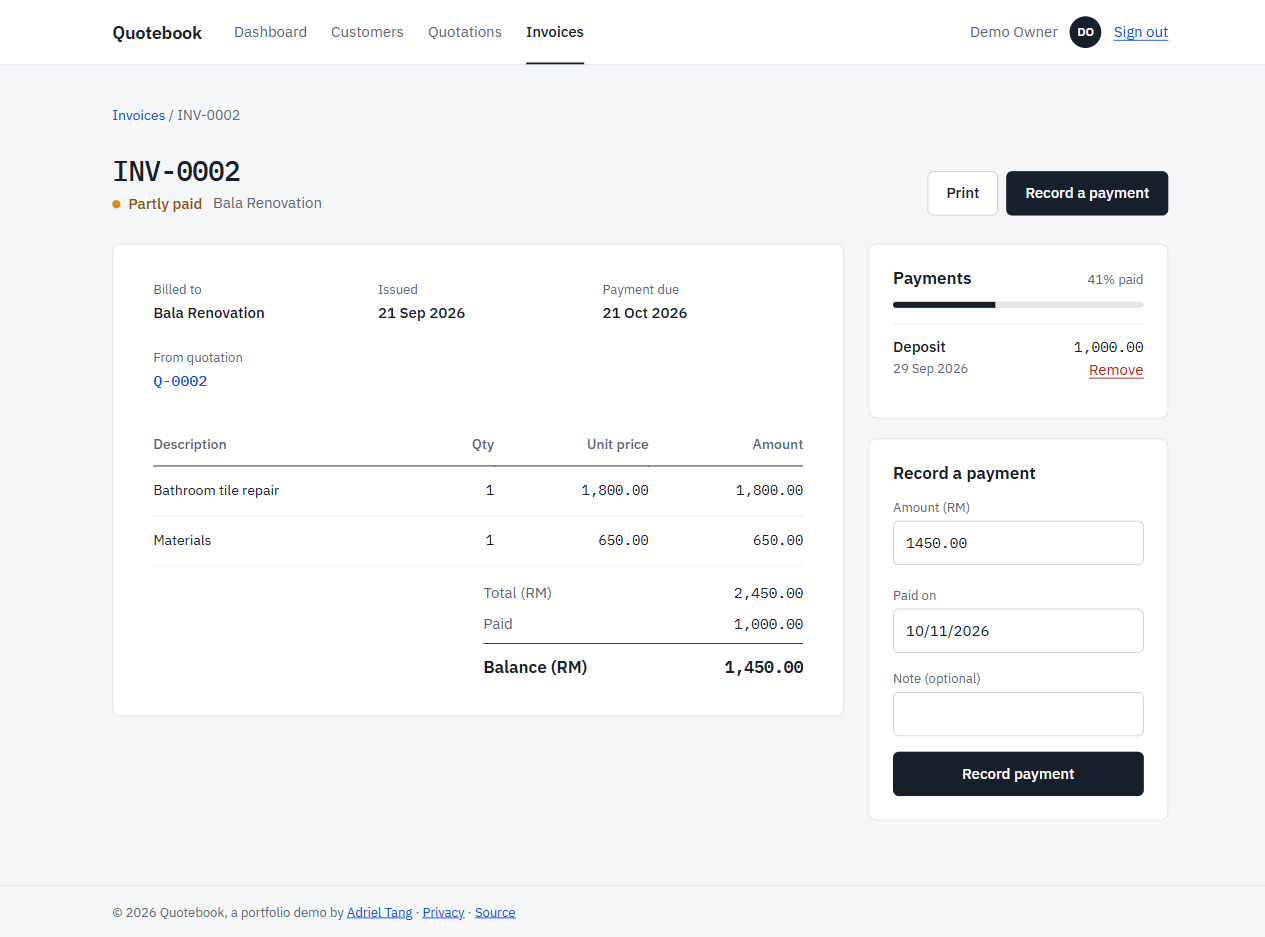
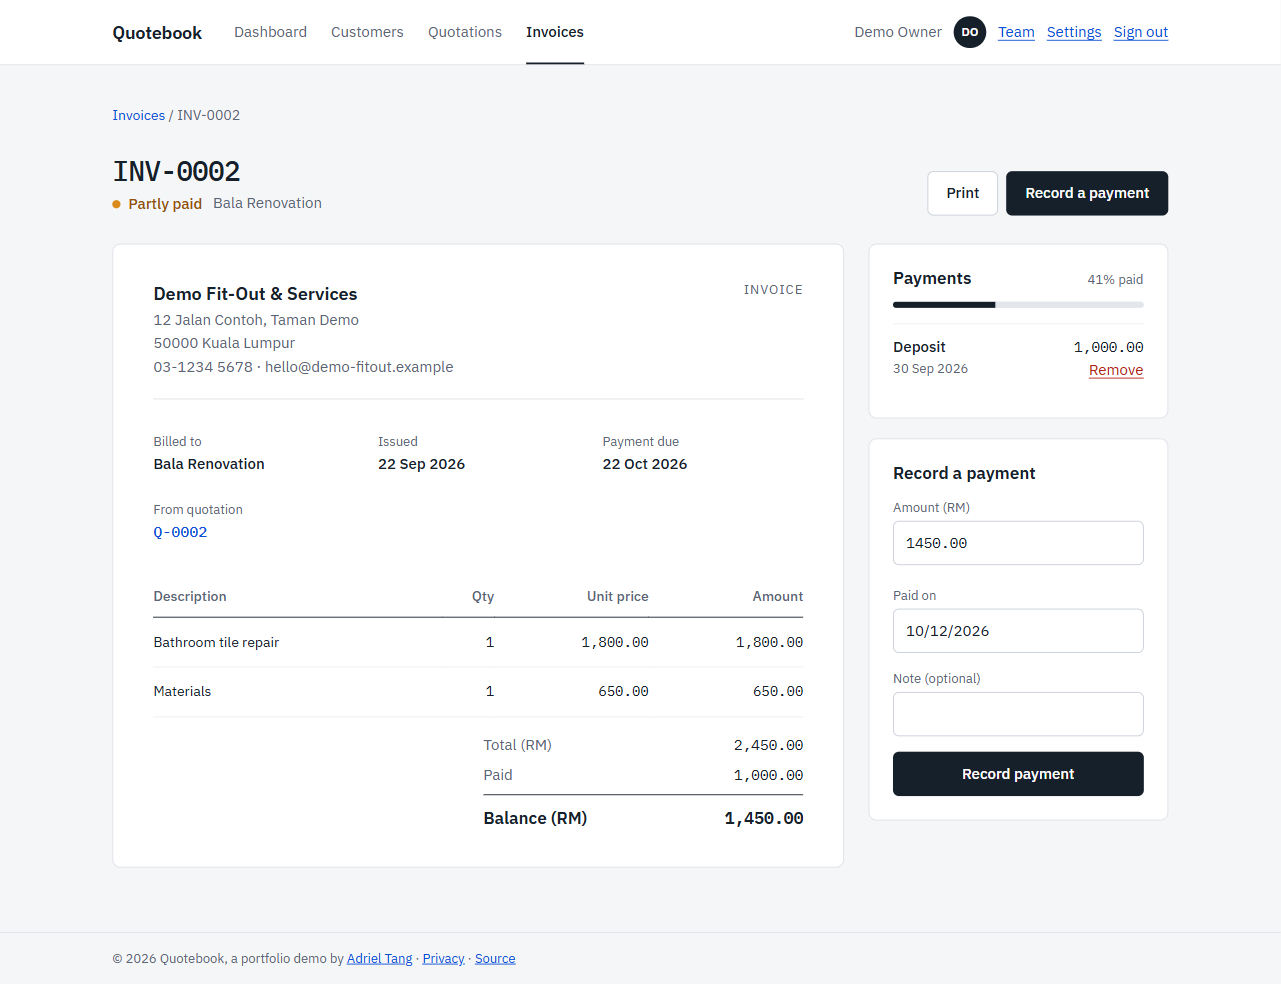
Quotebook case study: print, letterhead, search, staff invites (#26)
* content: Quotebook case study covers print, letterhead, search and staff invites

* content: retake Quotebook screenshots with the letterhead and search

---------

diff --git a/src/content/work/quotebook.md b/src/content/work/quotebook.md
@@ -17,22 +17,24 @@ shots:
     alt: "Quotebook dashboard: a dark band showing RM 2,040.00 owed across 3 unpaid invoices, with RM 240.00 overdue, RM 240.00 waiting for a reply and RM 1,100.00 collected this month, then a Needs attention list and recent invoices"
   - src: "../../assets/work/quotebook/invoices.png"
     label: "Invoices"
-    alt: "Quotebook invoice list with status filters and four invoices marked Unpaid, Partial, Paid and Overdue"
+    alt: "Quotebook invoice list with a search box, status filters and four invoices marked Unpaid, Partial, Paid and Overdue"
   - src: "../../assets/work/quotebook/invoice.png"
     label: "Payments"
-    alt: "Quotebook invoice INV-0002 partly paid: two line items, a RM 1,000 deposit recorded, a RM 1,450 balance and a form to record the next payment"
+    alt: "Quotebook invoice INV-0002 under the business letterhead, partly paid: two line items, a RM 1,000 deposit recorded, a RM 1,450 balance and a form to record the next payment"
   - src: "../../assets/work/quotebook/quotation.png"
     label: "Quotation"
-    alt: "Quotebook quotation Q-0006 in the Sent state, with buttons to record that the customer accepted or rejected it"
+    alt: "Quotebook quotation Q-0006 under the business letterhead, in the Sent state, with Print and buttons to record that the customer accepted or rejected it"
 featured: true
 order: 0
 problem: |-
   A lot of small service businesses quote over WhatsApp, track invoices in a spreadsheet and lose track of who has paid. I wanted to show how I'd build a system for that: the path from quotation to invoice to payment, with money that adds up and each business's data kept apart from everyone else's. It's a demo built for this portfolio, not a product with paying customers.
 change: |-
-  I'd add PDF output and email next, because a quotation has to reach the customer to matter. I'd also move the dashboard totals into SQL: today they're added up in memory, which is fine for hundreds of invoices but not thousands. And most of my tests ran against an in-memory database, which hid a foreign-key bug until I ran the demo seeder on real PostgreSQL. Next time I'd run the tests against a real PostgreSQL in CI from the start.
+  I'd add email sending next, because a quotation has to reach the customer to matter. Today you print it or save it as a PDF from the browser, and an invited staff member gets a link the owner has to pass on by hand. Real PDF generation would come with email, so the document can be attached. I'd also move the dashboard totals into SQL: today they're added up in memory, which is fine for hundreds of invoices but not thousands. And most of my tests ran against an in-memory database, which hid a foreign-key bug until I ran the demo seeder on real PostgreSQL. Next time I'd run the tests against a real PostgreSQL in CI from the start.
 forYou: |-
   If you need a web app with logins, roles and money that has to add up, this is how I'd build it: ASP.NET Core and SQL, with tests around the business rules and every business's data kept separate. The demo shows how it's put together. Yours would be scoped to what your business actually does.
 schema:
+  - table: Businesses
+    fields: ["Id (the business id)", "Name", "Address", "Phone", "Email"]
   - table: Customers
     fields: ["Id", "OwnerId", "Name", "Email", "Phone"]
   - table: Quotes
@@ -50,7 +52,7 @@ diagram:
       note: "Pages and handlers for customers, quotations, invoices and the dashboard (Quotebook.Web)."
     - id: identity
       label: Sign-in and roles
-      note: "ASP.NET Identity with Owner and Staff roles. The business id travels in the sign-in cookie."
+      note: "ASP.NET Identity with Owner and Staff roles, and staff invites by one-time link. The business id travels in the sign-in cookie."
     - id: core
       label: Domain rules
       note: "Quote and invoice rules, payment totals and statuses, with no framework or database code (Quotebook.Core)."
@@ -62,7 +64,7 @@ diagram:
       note: "The single source of truth, hosted on Neon. Unique indexes and a check constraint back up the rules."
     - id: tests
       label: xUnit tests
-      note: "Over 80 tests: the domain rules, one business never seeing another's data, and real page flows."
+      note: "Over 90 tests: the domain rules, one business never seeing another's data, and real page flows."
   edges:
     - [web, identity]
     - [web, core]
@@ -84,7 +86,9 @@ Open the live demo and press **Try the demo**. There's no sign-up. The demo busi
 - **Quotations** with line items, numbered per business (Q-0001, Q-0002), moving through Draft, Sent, Accepted or Rejected. An expired quotation can't be accepted.
 - **Invoices** created from an accepted quotation, once only, with the lines copied across.
 - **Payments** recorded as their own rows, so deposits and instalments are kept. An invoice shows Unpaid, Partial, Paid or Overdue. That status is worked out from the due date and the payments each time, never stored, so it can't go stale overnight.
-- **Roles.** Owners manage everything. Staff can record payments but only owners can remove one, and that's enforced on the server, not just by hiding the button.
+- **Print-ready documents.** Quotations and invoices print cleanly, or save as a PDF from the browser, under a letterhead with the business's name, address and contact details. The owner sets those in Settings.
+- **Search.** Customers by name, email or phone; quotations and invoices by number or customer name.
+- **Roles and staff invites.** Owners manage everything. Staff can record payments but only owners can remove one, and that's enforced on the server, not just by hiding the button. An owner invites staff from a Team page and gets a one-time link to pass on. The person sets their own password, so no one else ever knows it. The link works once and expires after a day.
 - **Separate businesses.** Every query is scoped to the signed-in business, and saving a row for another business is refused. Tests check both.
 
 ### Decisions worth explaining
@@ -94,6 +98,7 @@ Open the live demo and press **Try the demo**. There's no sign-up. The demo busi
 - **Rules live in one place.** The quote and invoice rules sit in a plain C# project with no framework code, so they're tested directly and the pages can't quietly disagree with them.
 - **A design language, not a template.** I designed it as "Ledger": a calm, finance-tool look with money in tabular monospace so the columns line up, status shown as a dot and a word (never colour alone), and a dark band on the dashboard that holds the one number an owner cares about. On a phone the navigation becomes a bottom tab bar and every table turns into a card per row. It uses no CSS framework, and the fonts are served from the site itself.
 - **A bug the tests couldn't see.** An in-memory test database doesn't enforce foreign keys, so a customer-link bug in the quote-to-invoice step only showed up when the demo seeder ran on real PostgreSQL. It now has its own unit test.
+- **Print without a PDF library.** A print stylesheet hides the navigation and side panels and leaves just the document. It avoids a second layout in C# to maintain and a heavier server, and the cost is that the output depends on the browser. I'd add real PDFs once email needs an attachment.
 - **A bug in my own access rules.** Requiring sign-in everywhere also blocked the stylesheets for signed-out visitors, so the public pages loaded unstyled. I found it by testing as a visitor, fixed it, and added a test.
 
 ### Status
